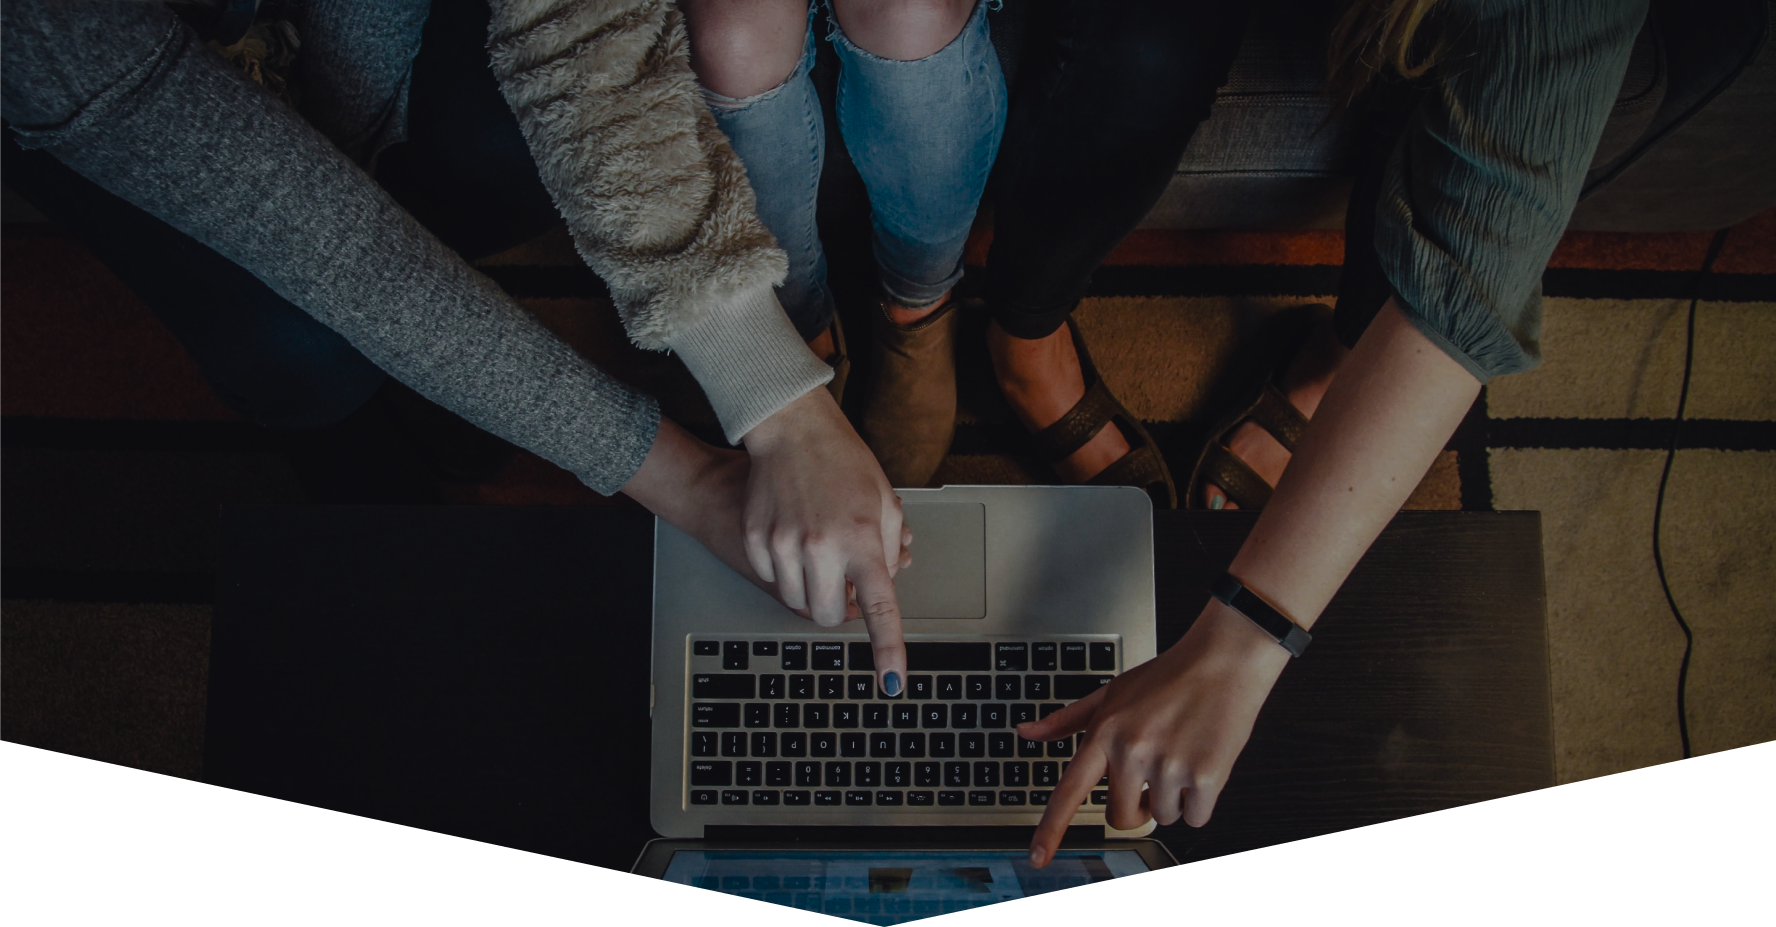
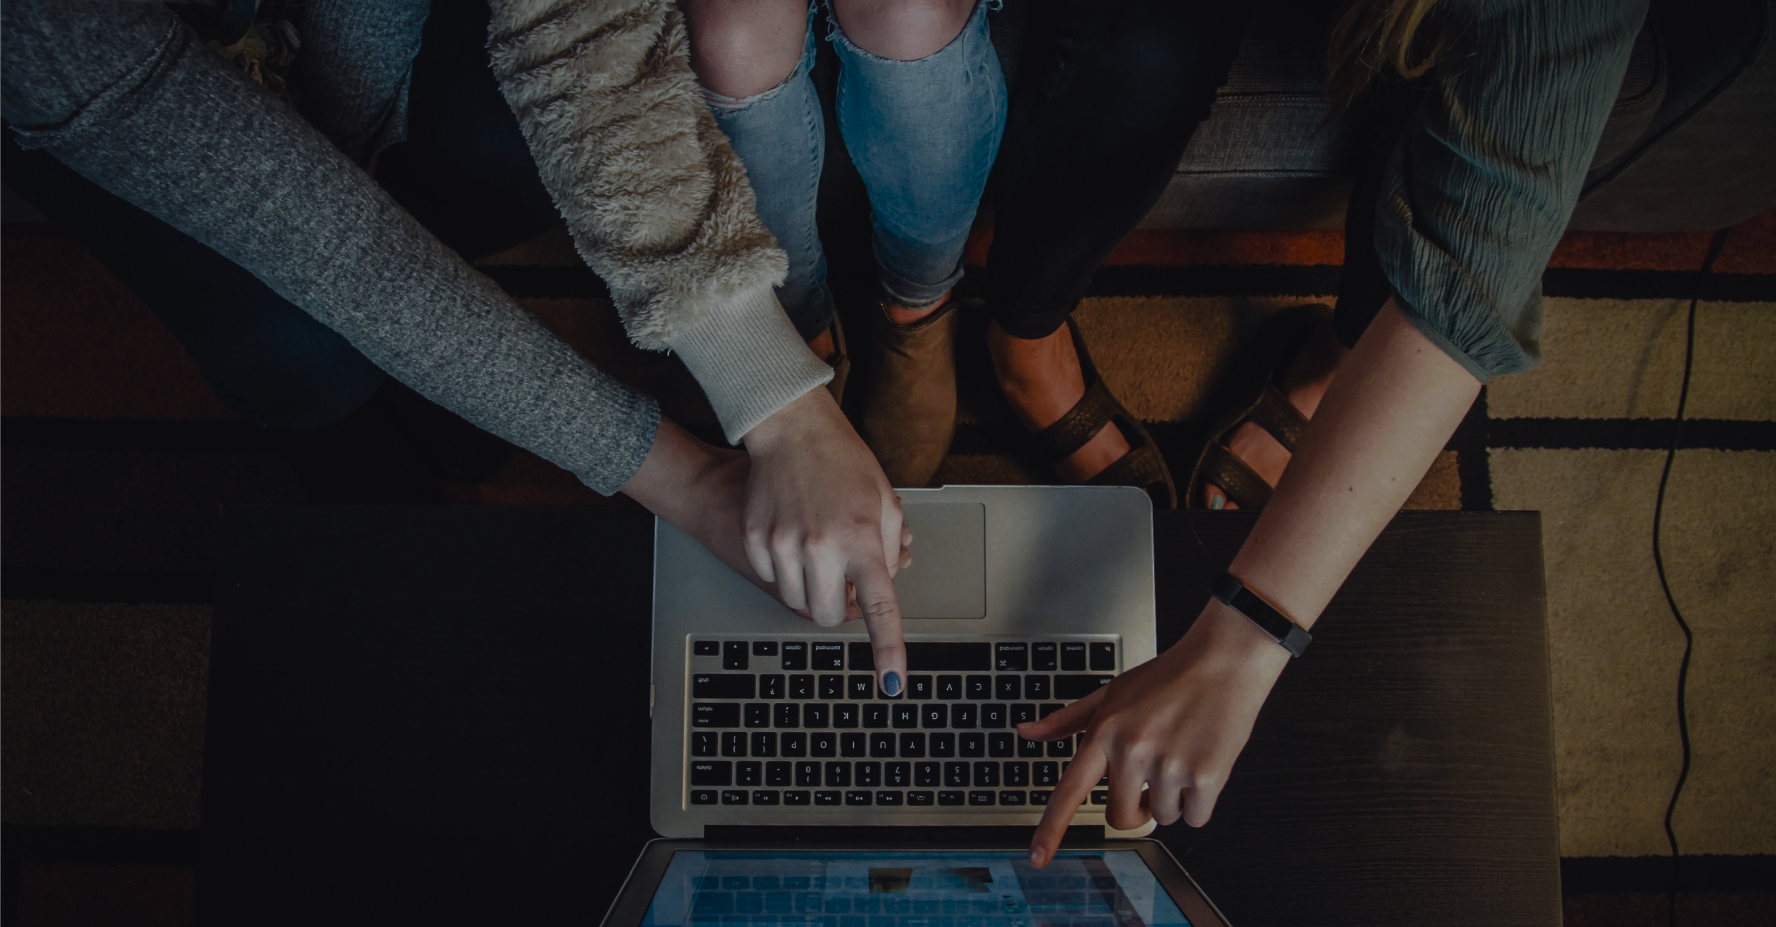
changes in style.css

Changed region(s): [[0.0, 0.7853, 1.0, 1.0]]

diff --git a/style.css b/style.css
@@ -10,6 +10,35 @@
     background-size: cover;
     background-position: center;
     background-attachment: fixed;
+    min-height: 105vh;
+}
+
+.home-page::before {
+    content: " ";
+    width: 50%;
+    outline: none;
+    position: absolute;
+    bottom: -15px;
+    left: -136px;
+    transform: rotate(-90deg);
+    border-right: 0px solid transparent;
+    border-top: 0px solid transparent;
+    border-bottom: 50vw solid transparent;
+    border-left: 280px solid #fff;
+}
+
+.home-page::after {
+    content: " ";
+    width: 50%;
+    outline: none;
+    position: absolute;
+    bottom: -15px;
+    right: -136px;
+    transform: rotate(90deg);
+    border-left: 0px solid transparent;
+    border-top: 0px solid transparent;
+    border-bottom: 50vw solid transparent;
+    border-right: 280px solid #fff;
 }
 
 .header {
@@ -90,7 +119,7 @@
 
 .home-section {
     width: 100%;
-    min-height: 105vh;
+    min-height: 100vh;
     display: flex;
     flex-direction: column;
     align-items: center;
